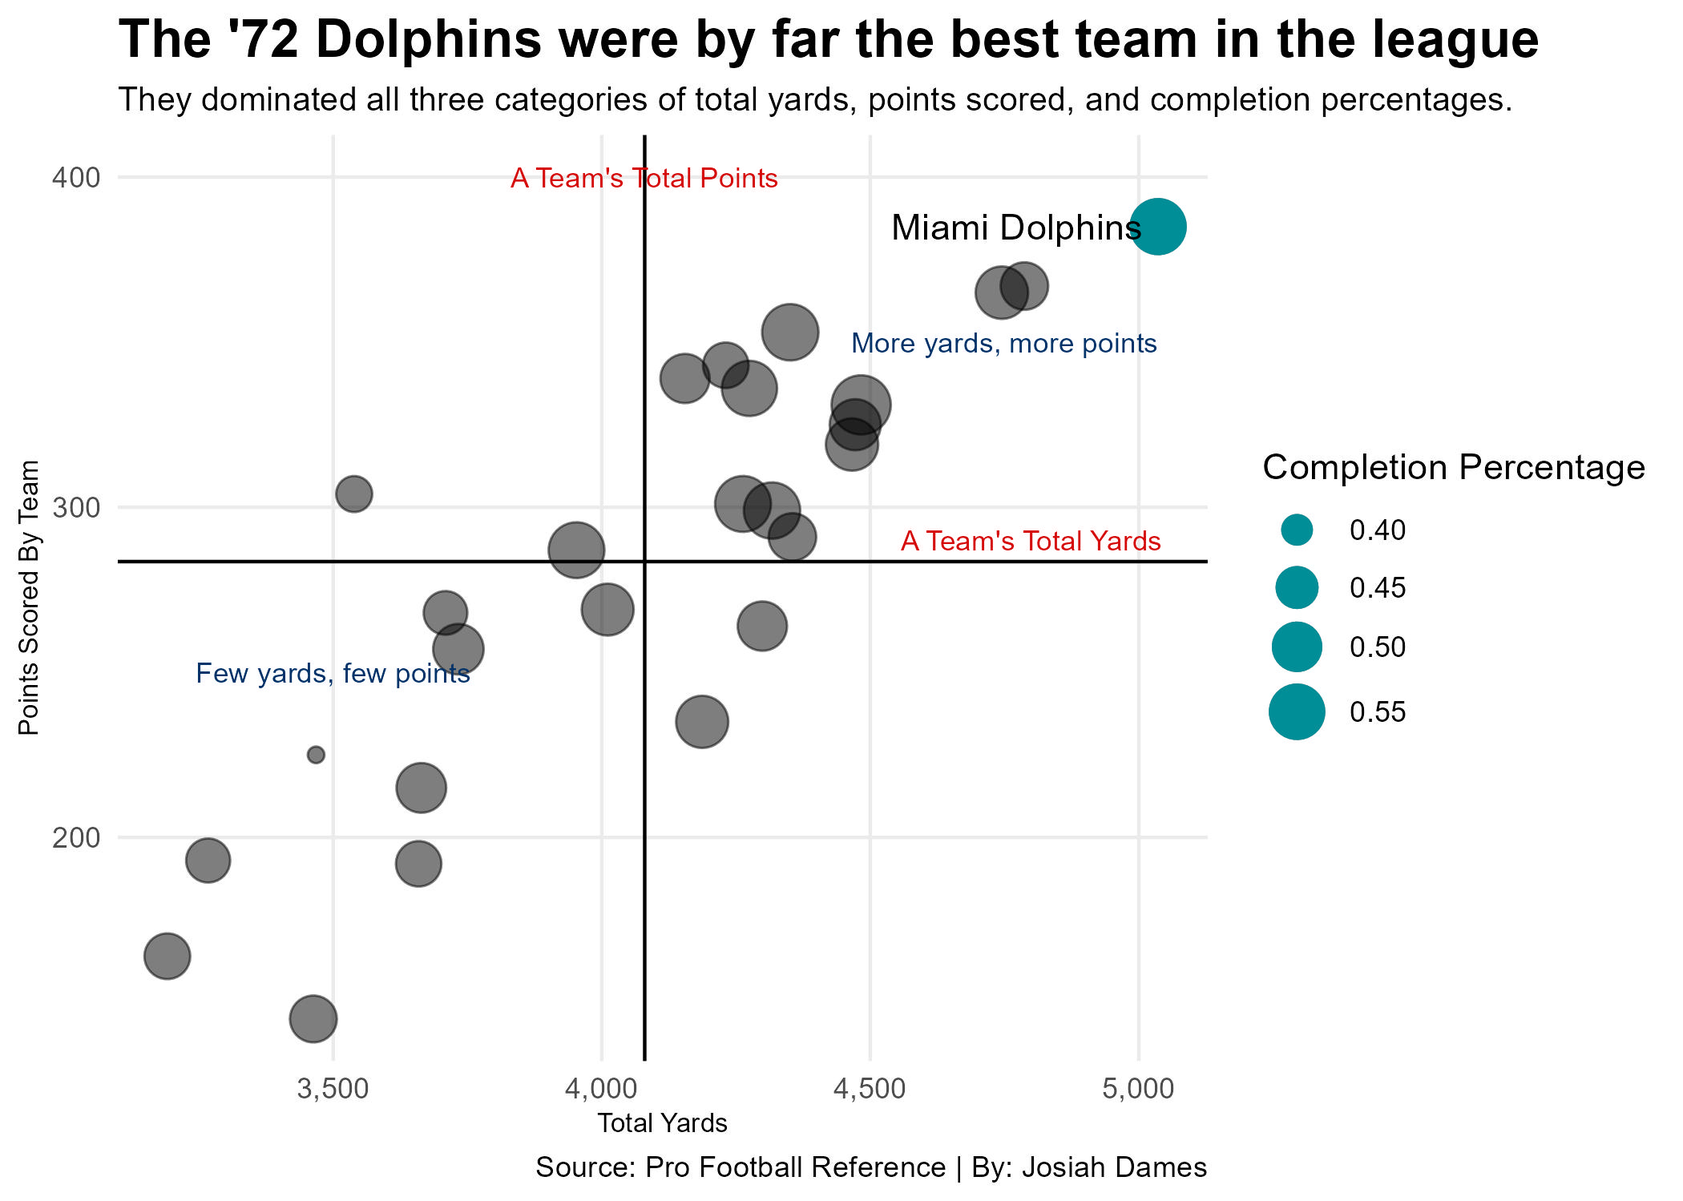
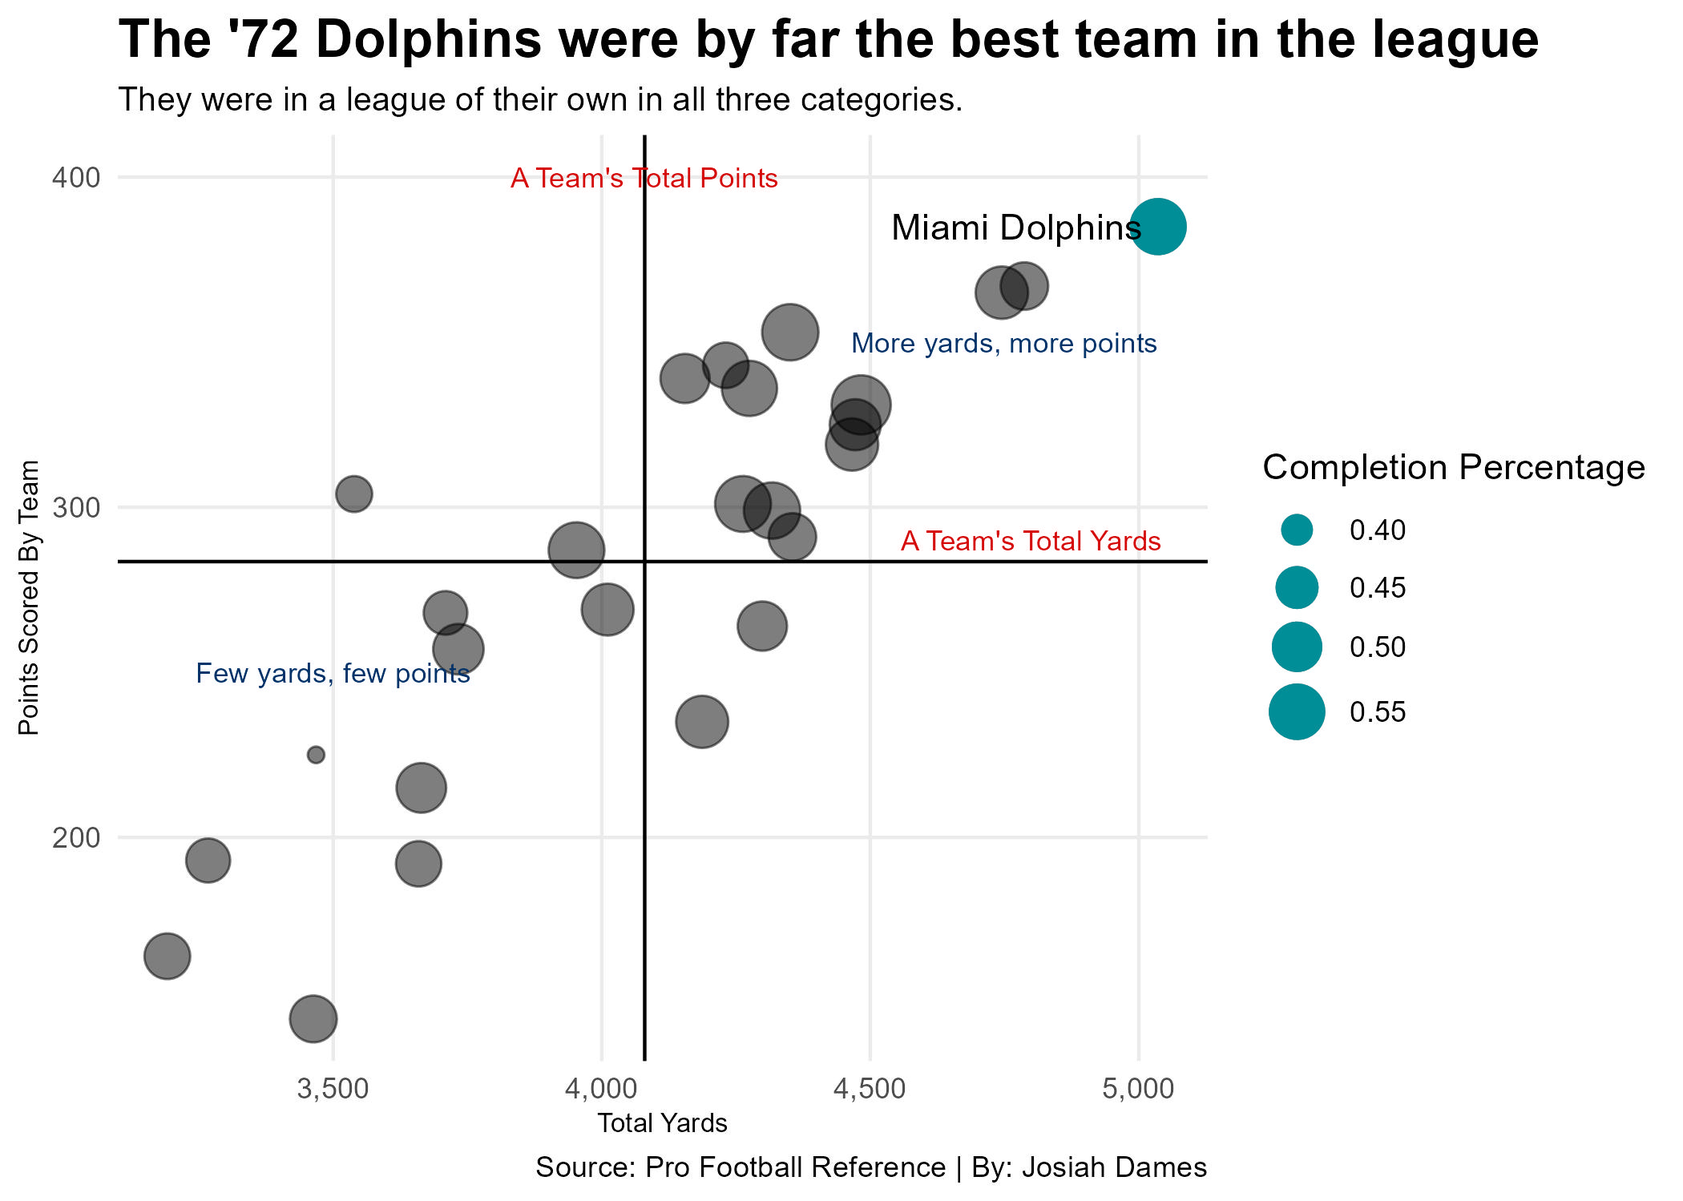
Initial Commit

Changed region(s): [[0.1238, 0.0614, 0.8976, 0.0921]]

diff --git a/posts/are-the-1972-dolphins-good/index.html b/posts/are-the-1972-dolphins-good/index.html
@@ -7,7 +7,7 @@
 <meta name="viewport" content="width=device-width, initial-scale=1.0, user-scalable=yes">
 
 <meta name="author" content="Josiah Dames">
-<meta name="dcterms.date" content="2024-12-08">
+<meta name="dcterms.date" content="2024-12-09">
 
 <title>Are the 1972 Dolphins just as good as other historically great teams? – Josiah’s Sports Data Collection</title>
 <style>
@@ -169,7 +169,7 @@ pre > code.sourceCode > span > a:first-child::before { text-decoration: underlin
       <div>
       <div class="quarto-title-meta-heading">Published</div>
       <div class="quarto-title-meta-contents">
-        <p class="date">December 8, 2024</p>
+        <p class="date">December 9, 2024</p>
       </div>
     </div>
     
@@ -191,9 +191,9 @@ pre > code.sourceCode > span > a:first-child::before { text-decoration: underlin
 <p>The 1972 Dolphins are the only team in NFL history to go undefeated and win the Super Bowl the same year. Led by quarterback Bob Griese and head coach Don Shula, the Dolphins did the impossible and no one has even been close to breaking that record, with the exception of the 2007 New England Patriots.</p>
 <p>While the ’72 Dolphins were regarded as one of the best teams in NFL history, that doesn’t always mean that they were the “best” team statistically. There are some teams, like the 1985 Chicago Bears, who didn’t have a great offense but were carried by the defense.</p>
 <p>If the ’72 Dolphins were that good, how do they compared with other great teams in NFL history? The league has changed a lot in the last 50 years. But before we answer that question, what about the other ’72 teams?</p>
-<p>The <a href="https://www.pro-football-reference.com/years/NFL/rushing.htm">Pro Football Reference’s</a> “Team Offense” statistics show each seasons’s offense, including yards, completions, yards per play, and points.</p>
-<p>To determine if the ’72 Dolphins were a great team, we must look at if they are even the best team that year statistically. (Talk about what information you’re putting into the graphs).</p>
-<p>BUBBLE CHART</p>
+<p>The <a href="https://www.pro-football-reference.com/years/NFL/rushing.htm">Pro Football Reference’s</a> “Team Offense” statistics show each season’s offense, including passing yards, completions, yards per play, and points for.</p>
+<p>To determine if the ’72 Dolphins were a great team, we must look at if they are even the best team that year statistically. The tables only look at the regular season.</p>
+<p>We will divide completions by passing attempts to create a factor called “Completion Percentage.” This will show how efficient each team in the 1972 season was compared to the Miami Dolphins that year. The more completions there are per attempt, the higher the completion percentage.</p>
 <div class="cell">
 <details class="code-fold">
 <summary>Code</summary>
@@ -307,7 +307,6 @@ pre > code.sourceCode > span > a:first-child::before { text-decoration: underlin
 <span id="cb1-108"><a href="#cb1-108" aria-hidden="true" tabindex="-1"></a>  <span class="fu">filter</span>(Team <span class="sc">==</span> <span class="st">"Kansas City Chiefs"</span>)</span></code><button title="Copy to Clipboard" class="code-copy-button"><i class="bi"></i></button></pre></div>
 </details>
 </div>
-<p>BUBBLE CHART (1972)</p>
 <div class="cell">
 <details class="code-fold">
 <summary>Code</summary>
@@ -341,7 +340,7 @@ pre > code.sourceCode > span > a:first-child::before { text-decoration: underlin
 <span id="cb2-28"><a href="#cb2-28" aria-hidden="true" tabindex="-1"></a>  <span class="fu">labs</span>(</span>
 <span id="cb2-29"><a href="#cb2-29" aria-hidden="true" tabindex="-1"></a>    <span class="at">x =</span> <span class="st">"Total Yards"</span>, <span class="at">y =</span> <span class="st">"Points Scored By Team"</span>,</span>
 <span id="cb2-30"><a href="#cb2-30" aria-hidden="true" tabindex="-1"></a>    <span class="at">title =</span> <span class="st">"The '72 Dolphins were by far the best team in the league"</span>,</span>
-<span id="cb2-31"><a href="#cb2-31" aria-hidden="true" tabindex="-1"></a>    <span class="at">subtitle =</span> <span class="st">"They dominated all three categories of total yards, points scored, and completion percentages."</span>,</span>
+<span id="cb2-31"><a href="#cb2-31" aria-hidden="true" tabindex="-1"></a>    <span class="at">subtitle =</span> <span class="st">"They were in a league of their own in all three categories."</span>,</span>
 <span id="cb2-32"><a href="#cb2-32" aria-hidden="true" tabindex="-1"></a>    <span class="at">caption =</span> <span class="st">"Source: Pro Football Reference | By: Josiah Dames"</span></span>
 <span id="cb2-33"><a href="#cb2-33" aria-hidden="true" tabindex="-1"></a>  ) <span class="sc">+</span></span>
 <span id="cb2-34"><a href="#cb2-34" aria-hidden="true" tabindex="-1"></a>  <span class="fu">geom_text</span>(</span>
@@ -396,7 +395,10 @@ pre > code.sourceCode > span > a:first-child::before { text-decoration: underlin
 <span id="cb3-5"><a href="#cb3-5" aria-hidden="true" tabindex="-1"></a>  )</span></code><button title="Copy to Clipboard" class="code-copy-button"><i class="bi"></i></button></pre></div>
 </details>
 </div>
-<p>BUBBLE CHART 2 (EVERY GOOD TEAM)</p>
+<p>Looking at all the 1972 teams, the Dolphins are statistically one of-if not the best-teams that season. As expected, the team that is arguably a great team that season should go on to win the Super Bowl.</p>
+<p>But how does the ’72 Miami Dolphins compare to other great teams? Looking throughout NFL history, there are many teams that stand out. These are some of those teams that will be compared to the Miami Dolphins: the 1985 San Diego Chargers, the 1990 Buffalo Bills, the 1998 Minnesota Vikings, the 1999 St.&nbsp;Louis Rams, the 2007 New England Patriots, the 2011 Green Bay Packers, the 2013 Denver Broncos, the 2016 Falcons, and the 2018 Kansas City Chiefs.</p>
+<p>Using the same metric as before, we will compare the ’72 Dolphins and these teams.</p>
+<p>Just as a reminder, the 1972 Dolphins played two games less during the regular season compared to the other teams.</p>
 <div class="cell">
 <details class="code-fold">
 <summary>Code</summary>
@@ -492,8 +494,8 @@ pre > code.sourceCode > span > a:first-child::before { text-decoration: underlin
 <span id="cb4-90"><a href="#cb4-90" aria-hidden="true" tabindex="-1"></a>  <span class="fu">theme_minimal</span>() <span class="sc">+</span></span>
 <span id="cb4-91"><a href="#cb4-91" aria-hidden="true" tabindex="-1"></a>  <span class="fu">labs</span>(</span>
 <span id="cb4-92"><a href="#cb4-92" aria-hidden="true" tabindex="-1"></a>    <span class="at">x =</span> <span class="st">"Total Yards"</span>, <span class="at">y =</span> <span class="st">"Points Scored By Team"</span>,</span>
-<span id="cb4-93"><a href="#cb4-93" aria-hidden="true" tabindex="-1"></a>    <span class="at">title =</span> <span class="st">"The '72 Dolphins are way behind every other team"</span>,</span>
-<span id="cb4-94"><a href="#cb4-94" aria-hidden="true" tabindex="-1"></a>    <span class="at">subtitle =</span> <span class="st">"The 2013 Denver Broncos led the charge in total yards, points scored, and completion percentage."</span>,</span>
+<span id="cb4-93"><a href="#cb4-93" aria-hidden="true" tabindex="-1"></a>    <span class="at">title =</span> <span class="st">"The 2013 Denver Broncos led the charge"</span>,</span>
+<span id="cb4-94"><a href="#cb4-94" aria-hidden="true" tabindex="-1"></a>    <span class="at">subtitle =</span> <span class="st">"The '72 Dolphins struggled to keep up with the other great teams in NFL history."</span>,</span>
 <span id="cb4-95"><a href="#cb4-95" aria-hidden="true" tabindex="-1"></a>    <span class="at">caption =</span> <span class="st">"Source: Pro Football Reference | By: Josiah Dames"</span></span>
 <span id="cb4-96"><a href="#cb4-96" aria-hidden="true" tabindex="-1"></a>  ) <span class="sc">+</span></span>
 <span id="cb4-97"><a href="#cb4-97" aria-hidden="true" tabindex="-1"></a>  <span class="fu">geom_text</span>(</span>
@@ -548,7 +550,10 @@ pre > code.sourceCode > span > a:first-child::before { text-decoration: underlin
 <span id="cb5-5"><a href="#cb5-5" aria-hidden="true" tabindex="-1"></a>  )</span></code><button title="Copy to Clipboard" class="code-copy-button"><i class="bi"></i></button></pre></div>
 </details>
 </div>
-<p>PASSING TABLE</p>
+<p>While they did have a disadvantage, the 1972 did not have a great completion percentage. The 2013 Denver Broncos is arguably one of the best offenses the NFL has seen yet, according to this data.</p>
+<p>This can be confirmed too by just looking at their roster. Veteran quarterback Peyton Manning was leading the charge with Knowshon Mereno as the lead running back and wide receivers such as Eric Decker, Demaryius Thomas, and Wes Welker. The 2013 Broncos did make it to the Super Bowl that season, but they ran into the Seattle Seahawks’ Legion of Boom.</p>
+<p>While the Broncos are truly impressive, the completion percentage only looks at one detail. How many touchdowns were scored by the offenses through the air? How many interceptions did each team have?</p>
+<p>All passing offense statistics from the ten great teams will be put together in a table.</p>
 <div class="cell">
 <details class="code-fold">
 <summary>Code</summary>
@@ -567,8 +572,8 @@ pre > code.sourceCode > span > a:first-child::before { text-decoration: underlin
 <span id="cb6-13"><a href="#cb6-13" aria-hidden="true" tabindex="-1"></a>    <span class="at">Int =</span> <span class="st">"Interceptions"</span></span>
 <span id="cb6-14"><a href="#cb6-14" aria-hidden="true" tabindex="-1"></a>  ) <span class="sc">|&gt;</span></span>
 <span id="cb6-15"><a href="#cb6-15" aria-hidden="true" tabindex="-1"></a>  <span class="fu">tab_header</span>(</span>
-<span id="cb6-16"><a href="#cb6-16" aria-hidden="true" tabindex="-1"></a>    <span class="at">title =</span> <span class="st">"The '72 Dolphins are the worst in the passing game"</span>,</span>
-<span id="cb6-17"><a href="#cb6-17" aria-hidden="true" tabindex="-1"></a>    <span class="at">subtitle =</span> <span class="st">"The '13 Denver Broncos dominate the passing game and have the most touchdowns."</span></span>
+<span id="cb6-16"><a href="#cb6-16" aria-hidden="true" tabindex="-1"></a>    <span class="at">title =</span> <span class="st">"The '13 Broncos are the best team regarding the passing game"</span>,</span>
+<span id="cb6-17"><a href="#cb6-17" aria-hidden="true" tabindex="-1"></a>    <span class="at">subtitle =</span> <span class="st">"Miami's total interceptions show that they prefered to not throw the ball."</span></span>
 <span id="cb6-18"><a href="#cb6-18" aria-hidden="true" tabindex="-1"></a>  ) <span class="sc">|&gt;</span> <span class="fu">tab_style</span>(</span>
 <span id="cb6-19"><a href="#cb6-19" aria-hidden="true" tabindex="-1"></a>    <span class="at">style =</span> <span class="fu">cell_text</span>(<span class="at">color =</span> <span class="st">"black"</span>, <span class="at">weight =</span> <span class="st">"bold"</span>, <span class="at">align =</span> <span class="st">"left"</span>),</span>
 <span id="cb6-20"><a href="#cb6-20" aria-hidden="true" tabindex="-1"></a>    <span class="at">locations =</span> <span class="fu">cells_title</span>(<span class="st">"title"</span>)</span>
@@ -1069,10 +1074,10 @@ pre > code.sourceCode > span > a:first-child::before { text-decoration: underlin
 </colgroup>
 <thead>
 <tr class="header gt_heading">
-<th colspan="8" class="gt_heading gt_title gt_font_normal" style="text-align: left; color: #000000; font-weight: bold;">The '72 Dolphins are the worst in the passing game</th>
+<th colspan="8" class="gt_heading gt_title gt_font_normal" style="text-align: left; color: #000000; font-weight: bold;">The '13 Broncos are the best team regarding the passing game</th>
 </tr>
 <tr class="odd gt_heading">
-<th colspan="8" class="gt_heading gt_subtitle gt_font_normal gt_bottom_border" style="text-align: left; color: #000000;">The '13 Denver Broncos dominate the passing game and have the most touchdowns.</th>
+<th colspan="8" class="gt_heading gt_subtitle gt_font_normal gt_bottom_border" style="text-align: left; color: #000000;">Miami's total interceptions show that they prefered to not throw the ball.</th>
 </tr>
 <tr class="header gt_col_headings">
 <th id="Year" class="gt_col_heading gt_columns_bottom_border gt_right" data-quarto-table-cell-role="th" style="border-bottom-width: 3px; border-bottom-style: solid; border-bottom-color: #000000; font-size: 12; font-weight: bold" scope="col">Year</th>
@@ -1197,7 +1202,9 @@ pre > code.sourceCode > span > a:first-child::before { text-decoration: underlin
 </div>
 </div>
 </div>
-<p>RUSHING TABLE</p>
+<p>As expected, the Broncos prove to be making their claim as one of the best offenses in NFL history. They had five touchdowns and almost 500 passing yards more than the 2018 Kansas City Chiefs. That 2018 Chiefs team is argued to be one of the best offenses from the Patrick Mahomes era, even NFL history.</p>
+<p>Throughout the NFL’s history, certain teams rely on certain kinds of offense, whether it’d be the passing or running game.</p>
+<p>Let’s look at the running game for the ten teams. If the 2013 Broncos were truly the best offense in NFL history, this also should mean they were great on the ground.</p>
 <div class="cell">
 <details class="code-fold">
 <summary>Code</summary>
@@ -1214,8 +1221,8 @@ pre > code.sourceCode > span > a:first-child::before { text-decoration: underlin
 <span id="cb7-11"><a href="#cb7-11" aria-hidden="true" tabindex="-1"></a>    <span class="at">RushYdsPerAtt =</span> <span class="st">"Rushing Yards Per Attempt"</span></span>
 <span id="cb7-12"><a href="#cb7-12" aria-hidden="true" tabindex="-1"></a>  ) <span class="sc">|&gt;</span></span>
 <span id="cb7-13"><a href="#cb7-13" aria-hidden="true" tabindex="-1"></a>  <span class="fu">tab_header</span>(</span>
-<span id="cb7-14"><a href="#cb7-14" aria-hidden="true" tabindex="-1"></a>    <span class="at">title =</span> <span class="st">"The run game is where the '72 Dolphins shined"</span>,</span>
-<span id="cb7-15"><a href="#cb7-15" aria-hidden="true" tabindex="-1"></a>    <span class="at">subtitle =</span> <span class="st">"They had the most rushing yards per attempt and the most rushing touchdowns."</span></span>
+<span id="cb7-14"><a href="#cb7-14" aria-hidden="true" tabindex="-1"></a>    <span class="at">title =</span> <span class="st">"The running game is where the '72 Dolphins shined"</span>,</span>
+<span id="cb7-15"><a href="#cb7-15" aria-hidden="true" tabindex="-1"></a>    <span class="at">subtitle =</span> <span class="st">"It seems that the closer we get to today, the less total rushing yards you will have."</span></span>
 <span id="cb7-16"><a href="#cb7-16" aria-hidden="true" tabindex="-1"></a>  ) <span class="sc">|&gt;</span> <span class="fu">tab_style</span>(</span>
 <span id="cb7-17"><a href="#cb7-17" aria-hidden="true" tabindex="-1"></a>    <span class="at">style =</span> <span class="fu">cell_text</span>(<span class="at">color =</span> <span class="st">"black"</span>, <span class="at">weight =</span> <span class="st">"bold"</span>, <span class="at">align =</span> <span class="st">"left"</span>),</span>
 <span id="cb7-18"><a href="#cb7-18" aria-hidden="true" tabindex="-1"></a>    <span class="at">locations =</span> <span class="fu">cells_title</span>(<span class="st">"title"</span>)</span>
@@ -1714,10 +1721,10 @@ pre > code.sourceCode > span > a:first-child::before { text-decoration: underlin
 </colgroup>
 <thead>
 <tr class="header gt_heading">
-<th colspan="6" class="gt_heading gt_title gt_font_normal" style="text-align: left; color: #000000; font-weight: bold;">The run game is where the '72 Dolphins shined</th>
+<th colspan="6" class="gt_heading gt_title gt_font_normal" style="text-align: left; color: #000000; font-weight: bold;">The running game is where the '72 Dolphins shined</th>
 </tr>
 <tr class="odd gt_heading">
-<th colspan="6" class="gt_heading gt_subtitle gt_font_normal gt_bottom_border" style="text-align: left; color: #000000;">They had the most rushing yards per attempt and the most rushing touchdowns.</th>
+<th colspan="6" class="gt_heading gt_subtitle gt_font_normal gt_bottom_border" style="text-align: left; color: #000000;">It seems that the closer we get to today, the less total rushing yards you will have.</th>
 </tr>
 <tr class="header gt_col_headings">
 <th id="Year" class="gt_col_heading gt_columns_bottom_border gt_right" data-quarto-table-cell-role="th" style="border-bottom-width: 3px; border-bottom-style: solid; border-bottom-color: #000000; font-size: 12; font-weight: bold" scope="col">Year</th>
@@ -1820,7 +1827,10 @@ pre > code.sourceCode > span > a:first-child::before { text-decoration: underlin
 </div>
 </div>
 </div>
-<p>PENALTY BAR CHARTS</p>
+<p>Interesting. While the 2013 Broncos didn’t have that good of a rushing offense, the 1972 Dolphins definitely did. Almost 900 more rushing yards and six more touchdowns than the next team is a great achievement. Just as reminder, this Dolphins team played two less games than the rest of these teams. If they played the same amount of games, it is very likely the 1972 Miami Dolphins could’ve had over 3,000 rushing yards and around 30 total rushing touchdowns.</p>
+<p>There is one factor that makes offensive production halt: penalties.</p>
+<p>Being penalized kills offensive momentum, and could potentially change the effectiveness of an offense.</p>
+<p>Let’s look at the number of penalties and the total penalty yards give to each team.</p>
 <div class="cell">
 <details class="code-fold">
 <summary>Code</summary>
@@ -1856,8 +1866,8 @@ pre > code.sourceCode > span > a:first-child::before { text-decoration: underlin
 <span id="cb8-30"><a href="#cb8-30" aria-hidden="true" tabindex="-1"></a></span>
 <span id="cb8-31"><a href="#cb8-31" aria-hidden="true" tabindex="-1"></a>bar1 <span class="sc">/</span> bar2 <span class="sc">+</span></span>
 <span id="cb8-32"><a href="#cb8-32" aria-hidden="true" tabindex="-1"></a>  <span class="fu">plot_annotation</span>(</span>
-<span id="cb8-33"><a href="#cb8-33" aria-hidden="true" tabindex="-1"></a>    <span class="at">title =</span> <span class="st">"The '72 Dolphins were the least penalized team"</span>,</span>
-<span id="cb8-34"><a href="#cb8-34" aria-hidden="true" tabindex="-1"></a>    <span class="at">subtitle =</span> <span class="st">"The 2018 Chiefs was the most penalized team among these teams."</span>,</span>
+<span id="cb8-33"><a href="#cb8-33" aria-hidden="true" tabindex="-1"></a>    <span class="at">title =</span> <span class="st">"The '18 Chiefs could not stop making mistakes"</span>,</span>
+<span id="cb8-34"><a href="#cb8-34" aria-hidden="true" tabindex="-1"></a>    <span class="at">subtitle =</span> <span class="st">"The Dolphins could be argued as the most effective team in not getting penalties in the NFL."</span>,</span>
 <span id="cb8-35"><a href="#cb8-35" aria-hidden="true" tabindex="-1"></a>    <span class="at">caption =</span> <span class="st">"Source: Pro Football Reference | By: Josiah Dames"</span></span>
 <span id="cb8-36"><a href="#cb8-36" aria-hidden="true" tabindex="-1"></a>  ) <span class="sc">&amp;</span></span>
 <span id="cb8-37"><a href="#cb8-37" aria-hidden="true" tabindex="-1"></a>  <span class="fu">theme_minimal</span>() <span class="sc">+</span></span>
@@ -1876,6 +1886,9 @@ pre > code.sourceCode > span > a:first-child::before { text-decoration: underlin
 </div>
 </div>
 </div>
+<p>The ’72 Dolphins had 68 total penalties with around 700 penalty yards. Compared to the other nine teams, it looks like Miami was pretty good about not getting the zebras involved.</p>
+<p>With all of these statistics considered, it seems like the 1972 Miami Dolphins were one of the best teams overall in NFL history. While they struggle in some areas, they made up for it in other areas. Each decade, even each year, can bring a new era of football. None of these seasons have the same styles of offense because defenses over time adapt to the offense. The ’72 Dolphins were really good at the running game and that can be attributed to their undefeated season.</p>
+<p>While the ’72 Dolphins were not great in the passing game like the ’13 Broncos or the ’18 Chiefs, that Dolphins team can say one thing: they at least won the Super Bowl. The only other “best” team that won their season’s Super Bowl was the 1999 St.&nbsp;Louis Rams. The ’99 Rams also relied on the running game more. Maybe Super Bowls are won by the team that has a better ground game.</p>
 
 
 

diff --git a/index.html b/index.html
@@ -205,7 +205,7 @@ window.Quarto = {
 
 <div class="quarto-listing quarto-listing-container-default" id="listing-listing">
 <div class="list quarto-listing-default">
-<div class="quarto-post image-right" data-index="0" data-categories="NFL" data-listing-date-sort="1733637600000" data-listing-file-modified-sort="1733599846585" data-listing-date-modified-sort="NaN" data-listing-reading-time-sort="16" data-listing-word-count-sort="3154">
+<div class="quarto-post image-right" data-index="0" data-categories="NFL" data-listing-date-sort="1733724000000" data-listing-file-modified-sort="1733784554679" data-listing-date-modified-sort="NaN" data-listing-reading-time-sort="20" data-listing-word-count-sort="3891">
 <div class="thumbnail">
 <p><a href="./posts/are-the-1972-dolphins-good/index.html" class="no-external"></a></p><a href="./posts/are-the-1972-dolphins-good/index.html" class="no-external">
 <p><img loading="lazy" src="./posts/are-the-1972-dolphins-good/image.jpg" class="thumbnail-image"></p>
@@ -230,7 +230,7 @@ NFL
 <div class="metadata">
 <a href="./posts/are-the-1972-dolphins-good/index.html" class="no-external">
 <div class="listing-date">
-Dec 8, 2024
+Dec 9, 2024
 </div>
 <div class="listing-author">
 Josiah Dames
